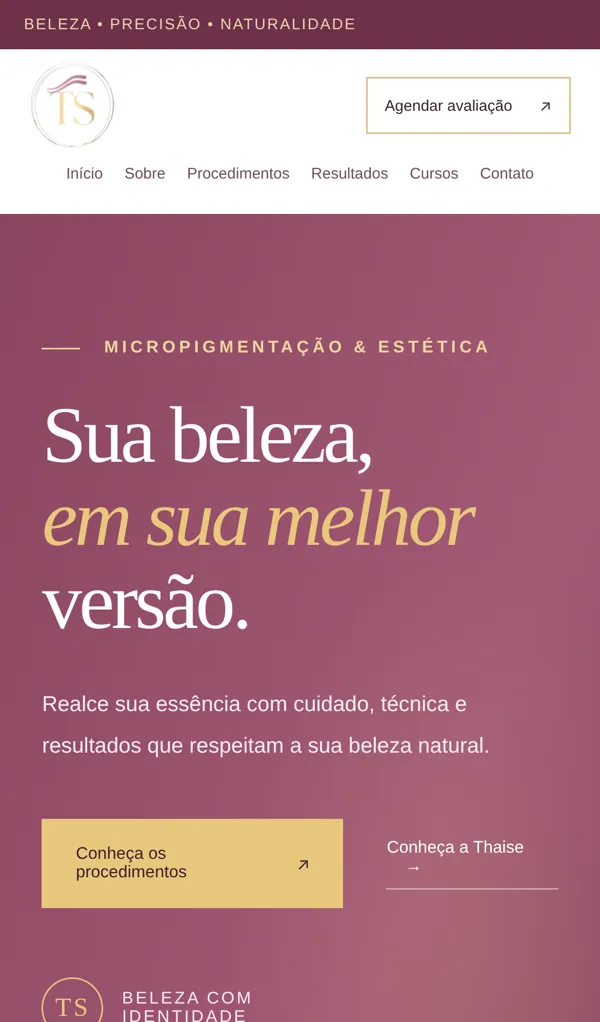
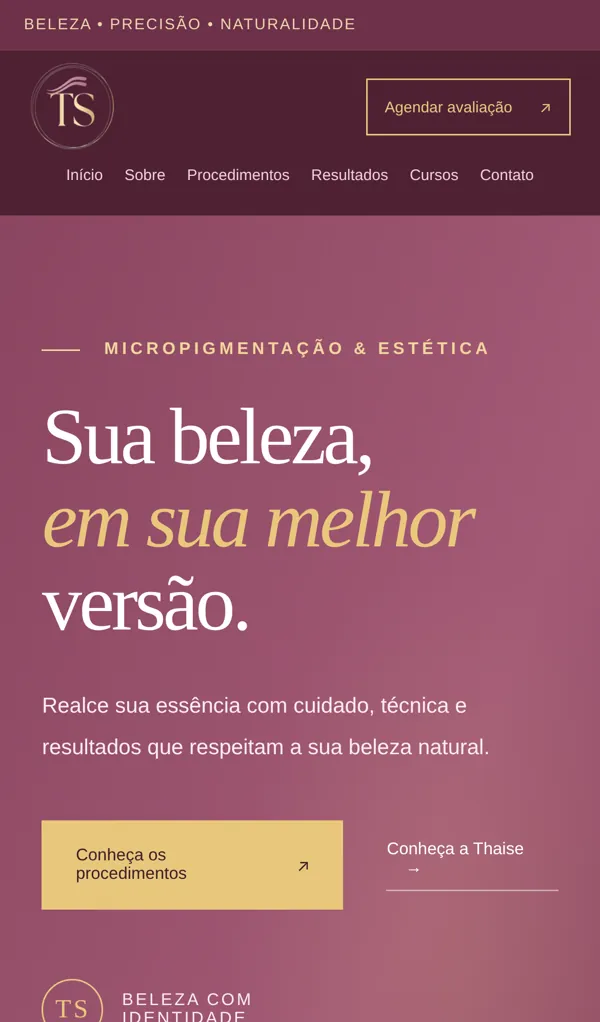
Cabeçalho em rosé escuro para realçar o monograma
- Fundo do cabeçalho igual ao do rodapé (--primary-darkest)
- Menu em texto claro com destaque dourado; botão dourado
- Capturas do README atualizadas

Claude-Session: https://claude.ai/code/session_01LPWhFhB3sJpcGDQJLUeoxk

diff --git a/app/globals.css b/app/globals.css
@@ -61,7 +61,8 @@ a {
   align-items: center;
   justify-content: space-between;
   padding: 10px 5.5%;
-  background: #fff;
+  background: var(--primary-darkest);
+  border-top: 1px solid rgba(233, 199, 125, 0.15);
   position: relative;
   z-index: 5;
 }
@@ -74,15 +75,23 @@ a {
   display: flex;
   gap: 30px;
   font-size: 12px;
-  color: var(--ink-soft);
+  color: var(--on-dark-muted);
 }
 .header nav a:hover {
-  color: var(--rose);
+  color: var(--gold);
 }
 .header-cta {
-  border: 1px solid #d8bd83;
+  border: 1px solid var(--gold);
+  color: var(--gold);
   padding: 14px 18px;
   font-size: 11px;
+  transition:
+    background 0.2s,
+    color 0.2s;
+}
+.header-cta:hover {
+  background: var(--gold);
+  color: var(--primary-darkest);
 }
 .header-cta span,
 .button span {
